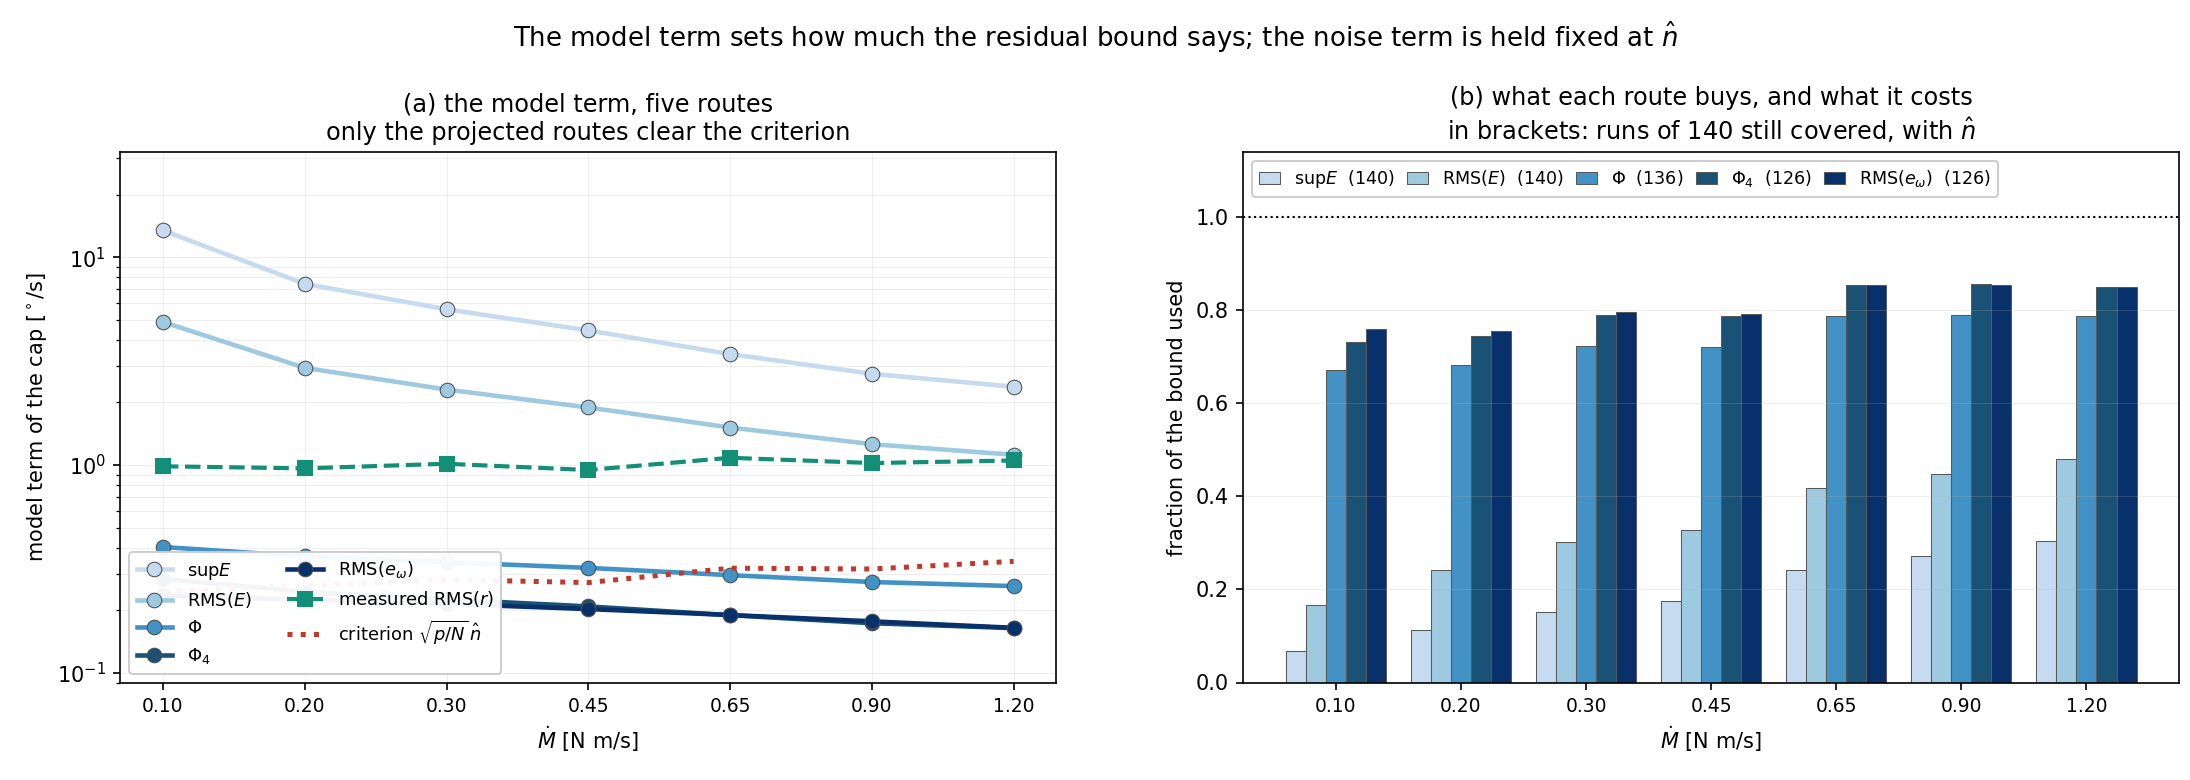
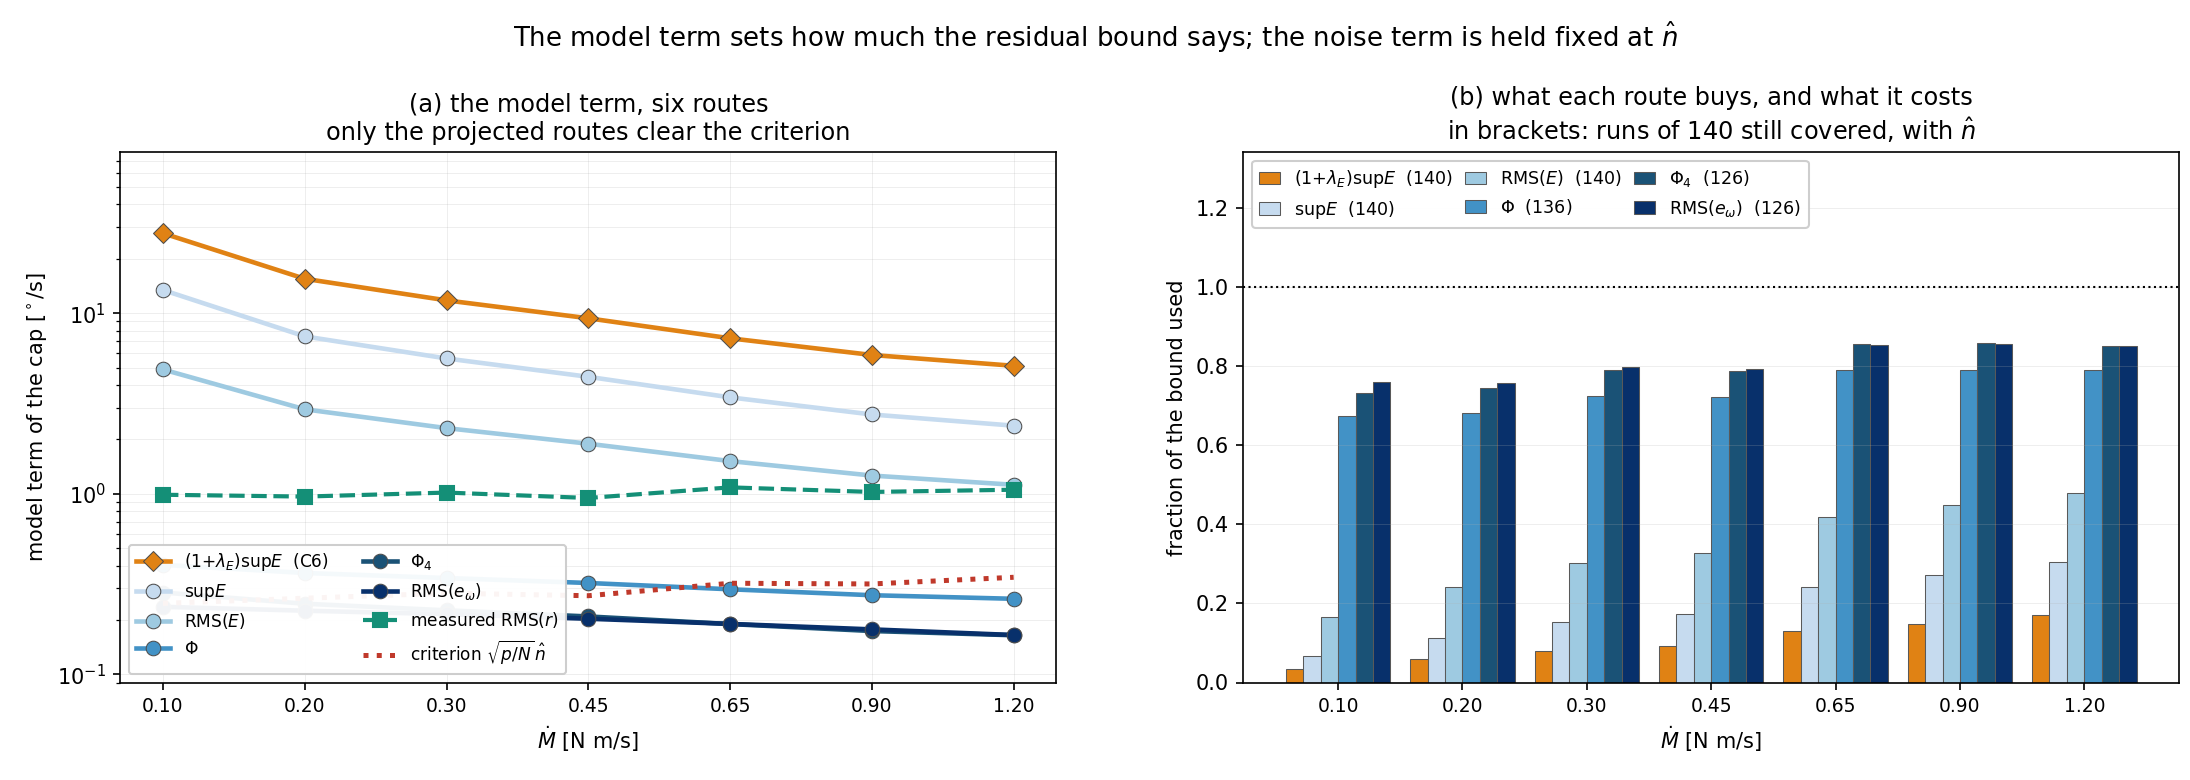
Model-term ladder: add the manuscript's (C6) level, where the projector inflates
Appendix C does apply I-P, but after the absolute value: Lemma 3's
D_i = sum_j |P_ij| E_j is a positive-weighted sum of a positive
envelope, so the step can only add.  Measured, lambda_E = 1.07 to 1.15,
so (C6)'s model term is 2.1x LARGER than plain sup E -- 27.7 deg/s at
the slowest ramp against 13.4 -- and 20 to 69x larger than Phi, which
applies the same projector to the signed kernel columns instead.

The figure now carries that level as its top curve, so the ladder reads
27.7 / 13.4 / 4.88 / 0.403 / 0.284 / 0.236 deg/s with used fractions
0.03 / 0.07 / 0.17 / 0.67 / 0.73 / 0.76.  Coverage in brackets in panel
(b) as before.

Claude-Session: https://claude.ai/code/session_01BM6bcsm1ZtLtgegEeuFDVS

diff --git a/analysis/model_term_ladder.py b/analysis/model_term_ladder.py
@@ -1,13 +1,18 @@
 #!/usr/bin/env python3
 """What the model term costs, route by route, against the same data.
 
-The residual bound is always cap = (model term) + (noise term).  Five
+The residual bound is always cap = (model term) + (noise term).  Six
 routes evaluate the model term, each needing more of the analysis than
 the last, and the noise term is held fixed at the calibrated estimate
 n_hat so that only the model term is being compared:
 
-  sup E      the pointwise envelope at its supremum.  Needs rho_bar,
-             C2, J_P and nothing else -- the manuscript's (C6) route.
+  (1+lam_E)supE  the manuscript's (C6).  It DOES apply the projector,
+             but after the absolute value: Lemma 3's D_i = sum_j |P_ij|
+             E_j is a positive-weighted sum, so projecting can only add.
+             Measured, lambda_E = 1.07 to 1.15, so the step INFLATES the
+             model term by 2.1x rather than absorbing anything.
+  sup E      the pointwise envelope at its supremum, no projector.
+             Needs rho_bar, C2, J_P and nothing else.
   RMS(E)     the same envelope in RMS, sqrt(B(x)/x) instead of sinh x.
   Phi        the envelope with the projection pushed inside the Duhamel
              superposition: the family absorbs the cosh part of every
@@ -16,9 +21,16 @@ n_hat so that only the model term is being compared:
              family {dC1, d(dt_c), dC2, dC}.
   RMS(e)     the deviation itself, from the exact nonlinear tip-over.
 
-At the slowest ramp the model term falls 13.4 -> 4.88 -> 0.40 -> 0.28
--> 0.24 deg/s along that ladder, a factor 57 end to end, and the used
-fraction of the bound rises 0.07 -> 0.17 -> 0.67 -> 0.73 -> 0.76.
+At the slowest ramp the model term falls 27.7 -> 13.4 -> 4.88 -> 0.40
+-> 0.28 -> 0.24 deg/s along that ladder, a factor 117 end to end, and
+the used fraction rises 0.03 -> 0.07 -> 0.17 -> 0.67 -> 0.73 -> 0.76.
+
+The first two entries are the point of the figure: the same projector,
+applied on either side of the absolute value, differs by a factor 20 to
+69.  Absorption needs the projector to meet the SIGNED kernel, where
+cosh(C2(tau-s)) = cosh(C2 s)cosh(C2 tau) - sinh(C2 s)sinh(C2 tau) and
+the first term is annihilated exactly; once |.| has been taken that
+minus sign is gone and nothing can cancel.
 
 Coverage is the cost, and it is stated rather than hidden: with the
 ESTIMATED noise term n_hat the two envelope routes cover 140/140, Phi
@@ -53,10 +65,11 @@ from tight_rms_bound import enrich
 from nonlinear_band import exact
 
 HERE = os.path.dirname(os.path.abspath(__file__))
-ROUTES = [('$\\sup E$', '#c6dbef'), ('$\\mathrm{RMS}(E)$', '#9ecae1'),
+ROUTES = [('$(1{+}\\lambda_E)\\sup E$  (C6)', '#e08214'),
+          ('$\\sup E$', '#c6dbef'), ('$\\mathrm{RMS}(E)$', '#9ecae1'),
           ('$\\Phi$', '#4292c6'), ('$\\Phi_4$', '#1a5276'),
           ('$\\mathrm{RMS}(e_\\omega)$', '#08306b')]
-KEYS = ['supE', 'rms_E', 'phi', 'phi4', 'eth']
+KEYS = ['c6', 'supE', 'rms_E', 'phi', 'phi4', 'eth']
 C_MEAS, C_CRIT = '#148f77', '#c0392b'
 
 
@@ -102,8 +115,16 @@ def build():
         tau, c2, k = d['tau'], d['c2'], d['k']
         jp = 1.0 / (k * c2 ** 2)
         rb, _, _ = rho_bar(d['axis'], PHI_BOX, d['dm_win'])
-        d['supE'] = float(np.rad2deg(
-            rb * np.sinh(np.clip(c2 * tau[-1], 0, 30)) / (jp * c2)))
+        E = rb * np.sinh(np.clip(c2 * tau, 0, 30)) / (jp * c2)
+        d['supE'] = float(np.rad2deg(E.max()))
+        # (C6): the projector applied to the ENVELOPE, after the absolute
+        # value -- Lemma 3's D_i = sum_j |P_ij| E_j, a positive-weighted
+        # sum, so it can only add.  lambda_E = max D / max E.
+        ut = np.cosh(np.clip(c2 * tau, 0, 30)) - 1.0
+        ut = ut - ut.mean()
+        Pm = 1.0 / len(tau) + np.outer(ut, ut) / float(ut @ ut)
+        d['lamE'] = float((np.abs(Pm) @ E).max() / E.max())
+        d['c6'] = d['supE'] * (1.0 + d['lamE'])
         d['phi4'] = tangent_phi(tau, c2, jp, rb, 4)
         d['eth'] = eth[d['rate']]
         kq = d['kq'] if d['kq'] is not None else kqm
@@ -125,7 +146,8 @@ def main():
 
     # ---- (a) the model term itself, and the criterion band ---------
     for (lab, col), kk in zip(ROUTES, KEYS):
-        a1.plot(i, [mean(v, kk) for v in grp], 'o-', color=col, lw=2.2,
+        mk = 'D-' if kk == 'c6' else 'o-'
+        a1.plot(i, [mean(v, kk) for v in grp], mk, color=col, lw=2.2,
                 ms=7, mec='0.3', mew=0.5, label=lab)
     a1.plot(i, [mean(v, 'rms_min') for v in grp], 's--', color=C_MEAS,
             lw=2.0, ms=7, label=r'measured $\mathrm{RMS}(r)$')
@@ -136,31 +158,31 @@ def main():
     a1.set_xticklabels([f'{r:.2f}' for r in rates], fontsize=9)
     a1.set_xlabel(r'$\dot M$ [N m/s]', fontsize=10)
     a1.set_ylabel(r'model term of the cap [$^\circ$/s]', fontsize=10)
-    a1.set_title('(a) the model term, five routes\n'
+    a1.set_title('(a) the model term, six routes\n'
                  'only the projected routes clear the criterion',
                  fontsize=11.5)
-    a1.set_ylim(0.09, 32.0)
-    a1.legend(fontsize=8.6, loc='lower left', ncol=2, framealpha=0.95)
+    a1.set_ylim(0.09, 78.0)
+    a1.legend(fontsize=8.2, loc='lower left', ncol=2, framealpha=0.95)
     a1.grid(alpha=0.25, lw=0.4, which='both')
 
     # ---- (b) what that buys: the used fraction --------------------
-    w = 0.16
+    w = 0.14
     for j, ((lab, col), kk) in enumerate(zip(ROUTES, KEYS)):
         u = [mean(v, 'rms_min') / (mean(v, kk) + mean(v, 'nh'))
              for v in grp]
         ins = sum(1 for d in rows if d['rms_min'] <= d[kk] + d['nh'])
-        a2.bar(i + (j - 2) * w, u, w, color=col, ec='0.35', lw=0.5,
-               label=f'{lab}  ({ins})')
+        a2.bar(i + (j - 2.5) * w, u, w, color=col, ec='0.35', lw=0.5,
+               label=f'{lab.split("  ")[0]}  ({ins})')
     a2.axhline(1.0, color='k', lw=1.0, ls=':')
     a2.set_xticks(i)
     a2.set_xticklabels([f'{r:.2f}' for r in rates], fontsize=9)
-    a2.set_ylim(0, 1.14)
+    a2.set_ylim(0, 1.34)
     a2.set_xlabel(r'$\dot M$ [N m/s]', fontsize=10)
     a2.set_ylabel('fraction of the bound used', fontsize=10)
     a2.set_title('(b) what each route buys, and what it costs\n'
                  'in brackets: runs of $140$ still covered, with $\\hat n$',
                  fontsize=11.5)
-    a2.legend(fontsize=8.4, loc='upper left', ncol=5, columnspacing=0.7,
+    a2.legend(fontsize=8.4, loc='upper left', ncol=3, columnspacing=0.7,
               handlelength=1.2, framealpha=0.95)
     a2.grid(alpha=0.25, lw=0.4, axis='y')
 
